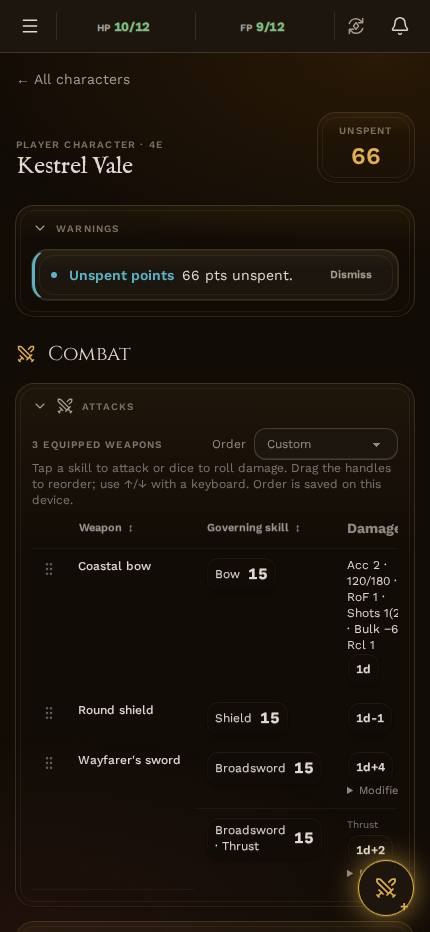
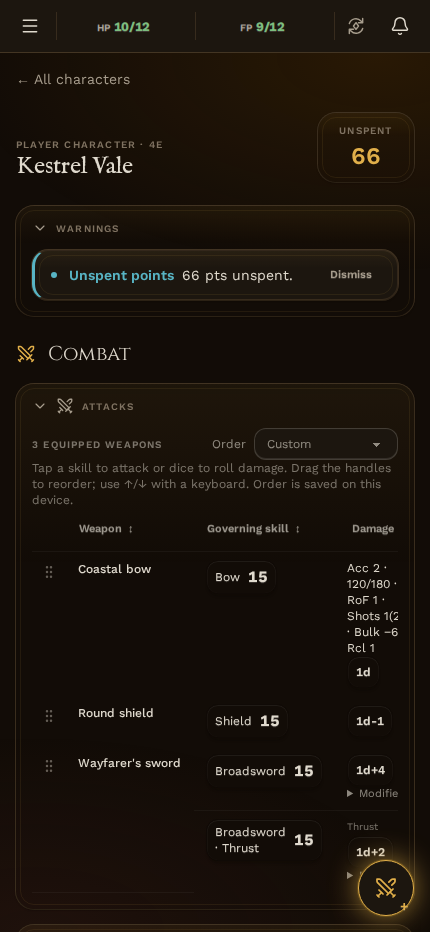
docs: refresh shared screenshots for current table headers

diff --git a/src/client/features/home/LandingPage.tsx b/src/client/features/home/LandingPage.tsx
@@ -93,7 +93,7 @@ export function LandingPage() {
               src="/screenshots/armor-desktop.png"
               alt="GPC Combat section showing armor coverage, active defenses, and damage protection in Gilded Tome."
               width="1224"
-              height="1283"
+              height="1284"
               loading="lazy"
             />
             <figcaption className="px-6 py-4 text-sm text-muted">
@@ -106,7 +106,7 @@ export function LandingPage() {
               src="/screenshots/inventory-desktop.png"
               alt="GPC inventory in Illuminated Manuscript with worn equipment and nested containers."
               width="1224"
-              height="1483"
+              height="1506"
               loading="lazy"
             />
             <figcaption className="px-6 py-4 text-sm text-muted">

diff --git a/docs/screenshots/README.md b/docs/screenshots/README.md
@@ -5,21 +5,21 @@ root README links those exact files; the unauthenticated landing page serves
 those same assets at `/screenshots/`. Refresh them together by replacing the
 canonical files, never by adding a second copy under `docs/`.
 
-Captured on 2026-09-26 from `d5bc613` plus the Overview, theme-picker,
+Captured on 2026-09-27 from `7bafafa` plus the Overview, theme-picker,
 campaign-transfer confirmation, adventure-point awards, and landing-page changes
 in this change. These are real Chromium screenshots, not mockups, captured from
 this checkout's isolated `gpc-179510909` development stack at
-`http://localhost:20909`, using a freshly migrated and seeded
-`gpc_player_experience` database. All pictured accounts, characters, and campaigns come
+`http://localhost:20909`, using the migrated and locally seeded
+`gurps` database. All pictured accounts, characters, and campaigns come
 from the fictional [standard seed](../../bootstrap/README.md); no production
 account or campaign was used.
 
 | Canonical file | Surface | Theme | Image size |
 | --- | --- | --- | --- |
-| `armor-desktop.png` | Complete Incoming attack panel: torso protection, coverage map, active defenses, and cutting-damage controls | Gilded Tome | 1224 × 1283 |
+| `armor-desktop.png` | Complete Incoming attack panel: torso protection, coverage map, active defenses, and cutting-damage controls | Gilded Tome | 1224 × 1284 |
 | `combat-mobile.png` | Kestrel Vale's Combat section, current HP/FP, weapon attacks, and mobile navigation | Gilded Tome | 430 × 932 |
 | `damage-mobile.png` | Incoming-damage preview: 10 cutting damage against torso DR 5 yields 7 injury | Gilded Tome | 430 × 932 |
-| `inventory-desktop.png` | Complete Inventory panel, worn/equipped equipment, and expanded three-level trail-pack contents | Illuminated Manuscript | 1224 × 1483 |
+| `inventory-desktop.png` | Complete Inventory panel, worn/equipped equipment, and expanded three-level trail-pack contents | Illuminated Manuscript | 1224 × 1506 |
 | `campaign-desktop.png` | Lantern Coast campaign overview, rules, roster, and workspace navigation | Illuminated Manuscript | 1440 × 920 |
 
 Desktop panel captures use a 1440-pixel browser width and a tall viewport so the
